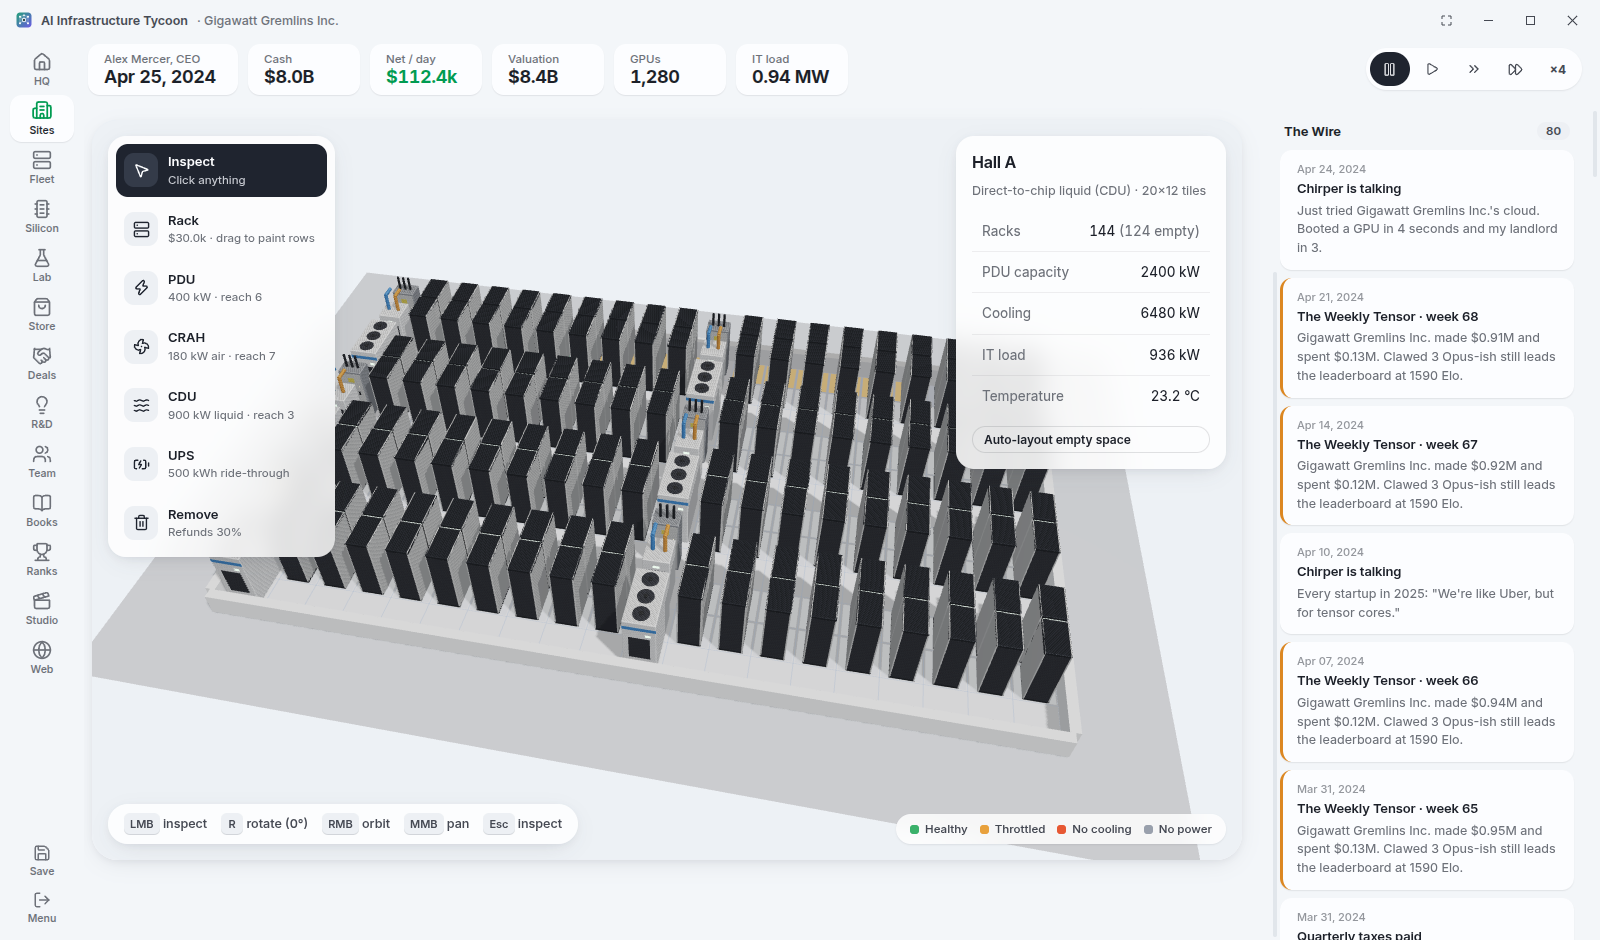
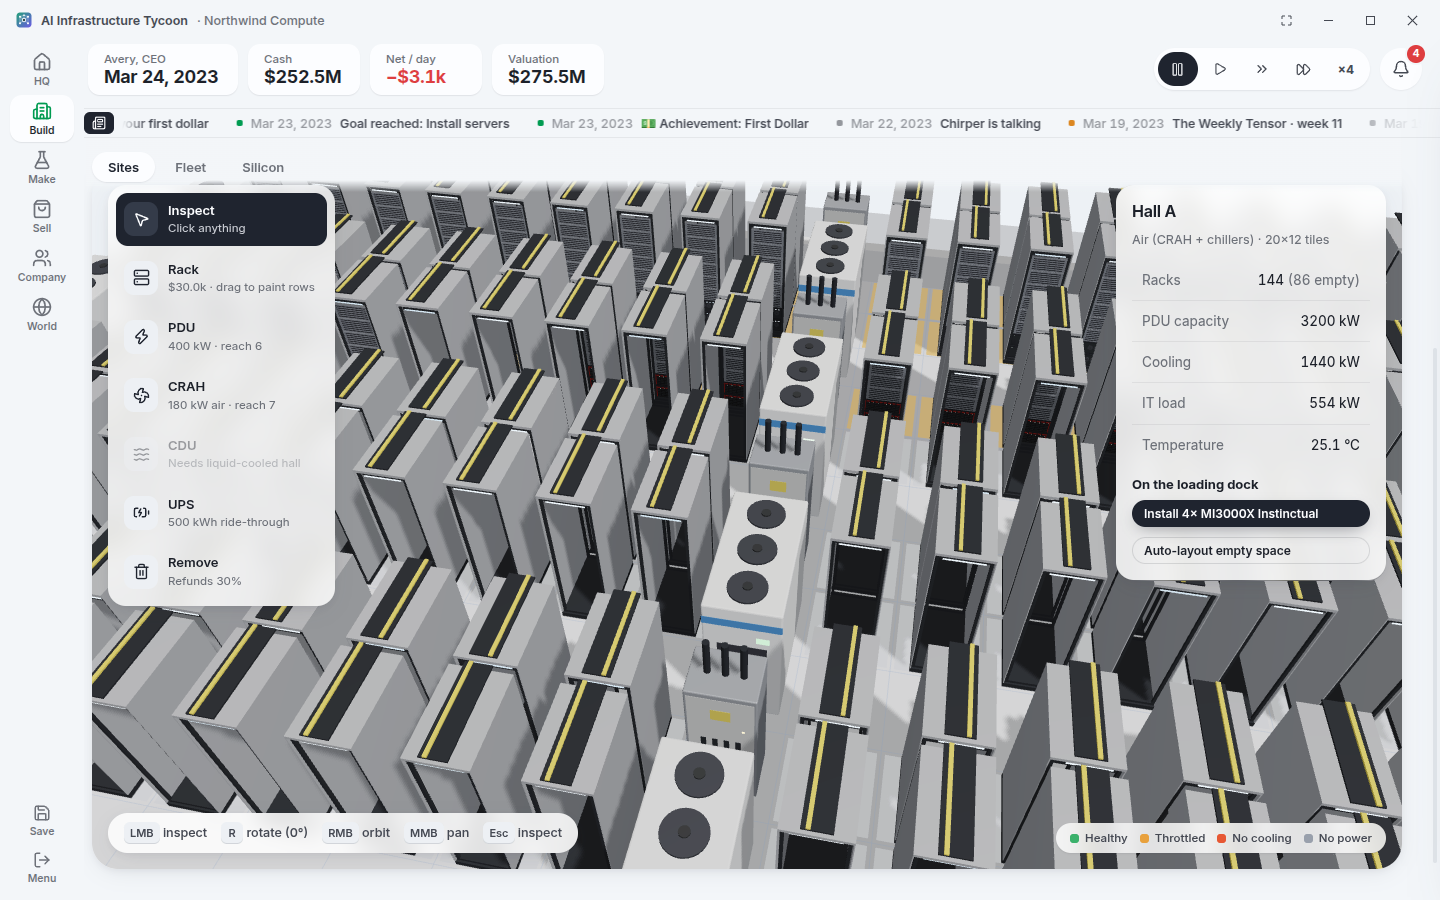
docs: README, ROADMAP and design doc for the expansion round; new screenshots

diff --git a/README.md b/README.md
@@ -52,8 +52,20 @@ The only lose condition is running out of money for 30 days.
 <td width="50%"><img src="docs/screenshots/ux-paper.png" alt="The Daily Compute, a broadsheet newspaper" /><br/><sub><b>The Daily Compute.</b> A morning paper every game day, built from what actually happened.</sub></td>
 </tr>
 <tr>
-<td width="50%"><img src="docs/screenshots/hall-editor.png" alt="3D hall editor with racks, PDUs and cooling units" /><br/><sub><b>The hall editor.</b> Every rack needs a PDU and a cooler within reach. Overload them and things get warm.</sub></td>
-<td width="50%"><img src="docs/screenshots/chip-designer.png" alt="Chip designer with package floorplan and wafer map" /><br/><sub><b>Make your own chip.</b> Pick a node and a die size, then watch yield fall off a cliff.</sub></td>
+<td width="50%"><img src="docs/screenshots/hall-editor.png" alt="3D hall with open racks, 8-GPU servers, blanking panels and cable ladders" /><br/><sub><b>The hall editor.</b> Every server, sled and status light is visible. Hold-click anything to pick it up and move it.</sub></td>
+<td width="50%"><img src="docs/screenshots/chip-3d.png" alt="Exploded 3D chip with gold lid, RGB HBM stacks, an espresso cup and a rubber duck" /><br/><sub><b>Make your own chip, in 3D.</b> Explode the package, pick a finish, and bolt on a gold lid, an espresso boiler or a qubit. Every mod changes the numbers.</sub></td>
+</tr>
+<tr>
+<td width="50%"><img src="docs/screenshots/model-foundry.png" alt="Model Foundry with modality cards and fine-tune options" /><br/><sub><b>Model Foundry.</b> Text, code, image, speech, video or omni. Train from scratch, fine-tune, distil, or keep pre-training any base.</sub></td>
+<td width="50%"><img src="docs/screenshots/node-studio.png" alt="Server node designer with live trade-off table" /><br/><sub><b>Design your own server.</b> Cooling, power profile, host RAM and parts grade, with a live comparison against the stock box.</sub></td>
+</tr>
+<tr>
+<td width="50%"><img src="docs/screenshots/globe.png" alt="Network globe with dotted continents and glowing backbone arcs" /><br/><sub><b>Your network on the globe.</b> 15 regions, your backbone in light, rival campuses in the dark.</sub></td>
+<td width="50%"><img src="docs/screenshots/whos-who.png" alt="Grid of parody CEOs with company marks" /><br/><sub><b>Who's who.</b> 35 parody companies, each with a CEO, a brand mark, a headquarters and opinions.</sub></td>
+</tr>
+<tr>
+<td width="50%"><img src="docs/screenshots/fleet-brands.png" alt="Fleet shop with vendor word-marks and branded GPU modules" /><br/><sub><b>Shop like it's a real launch.</b> Vendor word-marks, branded modules, and your own designs next to theirs.</sub></td>
+<td width="50%"><img src="docs/screenshots/chip-designer.png" alt="Chip designer with package floorplan and wafer map" /><br/><sub><b>Then do the maths.</b> Floorplan, wafer map, yield, NRE, time to silicon.</sub></td>
 </tr>
 <tr>
 <td><img src="docs/screenshots/model-designer.png" alt="Animated neural network flowchart" /><br/><sub><b>Design a model.</b> Click the diagram. Add experts. Regret the KV cache.</sub></td>
@@ -84,15 +96,15 @@ The only lose condition is running out of money for 30 days.
 
 | | |
 |---|---|
-| 🏗 **Build** | Pick from 9 regions with real-ish power prices, climates and permit delays. Lay out halls tile by tile in 3D. |
+| 🏗 **Build** | Pick from 15 regions with real-ish power prices, climates and permit delays. Lay out halls tile by tile in 3D, and hold-click anything to move it later. |
 | ⚡ **Power** | Utility feeds, solar, wind, gas, batteries, geothermal and eventually small reactors. Choose a dispatch strategy and sign PPAs. |
 | ❄ **Cool** | Air, rear-door, direct-to-chip, immersion. Air can't handle a Blackwall-class rack, and physics will remind you. |
-| 🔩 **Silicon** | Design GPUs and CPUs from process node to HBM stack. Tape out, buy wafers or build your own fab with EUV scanners, then sell chips. |
-| 🧠 **Models** | Real transformer maths (GQA, MLA, mixture-of-experts), a dataset market with "legal risk", and benchmark scores that depend on your data mix. |
+| 🔩 **Silicon** | Design GPUs and CPUs from process node to HBM stack in a live 3D package, with finishes and 12 absurd-but-real mods. Tape out, buy wafers or build your own fab with EUV scanners, then sell chips. Or design your own 8-GPU server nodes around anyone's GPU. |
+| 🧠 **Models** | Real transformer maths (GQA, MLA, mixture-of-experts), a dataset market with "legal risk", and benchmark scores that depend on your data mix. Six modalities as separate business lines; train from scratch, fine-tune, distil or continue pre-training from your models or open weights. |
 | 🛍 **Products** | Chat apps, coding agents, an API platform with keys and rate limits, and enterprise seats. You design the plans. |
 | ☁ **Cloud** | Rent out GPU and CPU servers on-demand, reserved or spot, or rent compute yourself when you're short. |
 | 👥 **People** | Hire named weirdos with traits, keep them happy, and watch rivals poach your best ones. |
-| 🏆 **Rivals** | Leaderboards, acquisitions (if regulators let you), an IPO, a rich list, and 32 achievements. |
+| 🏆 **Rivals** | 35 parody companies with CEOs and brand marks, rival campuses on a network globe, leaderboards, acquisitions (if regulators let you), an IPO, a rich list, and 32 achievements. |
 | 🧭 **Guidance** | HQ suggests the next few things worth doing. Hire managers for facilities, sales, people, finance and research and let them run on autopilot; they ask before anything you can't undo. |
 | 🛡 **Safety net** | Anything irreversible asks first (hold to confirm), big purchases show your cash afterwards, and small edits can be undone for five seconds. |
 | 📰 **News** | A headline ticker, a news drawer you can filter, and The Daily Compute every morning. |

diff --git a/docs/ROADMAP.md b/docs/ROADMAP.md
@@ -29,14 +29,20 @@ Status: ✅ done · 🟡 partial · ⬜ todo
 
 - ✅ UX foundation: six hubs instead of thirteen tabs, HQ next steps + inbox, hireable managers with autopilot, hold-to-confirm for irreversible actions + 5 s undo, plain-English summaries and an Advanced fold on every screen, jargon tooltips, headline ticker + news drawer + The Daily Compute, Sandbox/Developer mode
 
+- ✅ Assets & world: Blender rack v2 (open cabinet, ToR switch, cable ladder), 8-GPU server with vendor-tinted sleds, blanking panels, LED twinkle; rack elevation in the inspector; dotted network globe (Natural Earth land mask) with backbone arcs; 15 regions; 35 parody companies with CEOs, brand marks, HQs and rival campuses; brand system (20 marks, app-icon tiles, word-marks, branded GPU/CPU art); Who's who tab
+- ✅ Hold-click to pick up and move placed racks, PDUs, coolers and UPS (free, undoable)
+- ✅ Node studio: design your own 8-GPU server SKU (cooling, power profile, host RAM, parts)
+- ✅ 3D chip studio: package built from the spec, exploded view, finishes, 12 absurd-but-real mods with visible props
+- ✅ Model Foundry: six modalities with their own price and demand, a Modalities R&D branch, and scratch / fine-tune / distil / continue from your models or open weights
+- ✅ Simpler dark title screen
+
 ## Next (agreed order)
-1. Assets & world — generated art, Blender models, better world map, many more fictional companies and people, brand-style parody marks for companies, GPUs, CPUs and clouds
-2. Model Foundry — train from scratch, fine-tune or transfer-learn, run models; a modality skill tree (text, code, image, speech, video, multimodal) as separate business lines
-3. Data Foundry — make, label and sell datasets per modality
+1. Per-modality competition — image, speech, code and video rivals of their own (Halfjourney, ElevenLaps, Cursed …)
+2. Data Foundry — make, label and sell datasets per modality
 4. Silicon from scratch — deeper chip design
 5. Story & media — press conferences, richer websites, trailers, secret events
 
 ## Ideas for later
-- Hold-click to pick up and move placed racks, PDUs and coolers
+- Images made with the agy image-generation tool (transparent PNGs)
 - Balance pass: a small first cluster hovers around break-even
 - Multi-site training (tech exists), orbital data centers / Dyson swarm gameplay, export trailers to MP4, sound design

diff --git a/docs/GAME_DESIGN.md b/docs/GAME_DESIGN.md
@@ -30,12 +30,20 @@ hour by hour with real-world physics and economics, then exaggerated just enough
   transistor density → die area → compute units and clocks, then HBM generation and stack count, then packaging
   (monolithic, CoWoS chiplets, wafer-scale). Physics pushes back through yield (Poisson defect density), power
   density, reticle limits and tape-out NRE. Tape out, buy wafer allocation from Taiwan Semiconductor-ish Co.,
-  and use the chips yourself or sell them to rivals.
+  and use the chips yourself or sell them to rivals. The package is drawn live in 3D (exploded view, finishes), and
+  12 absurd mods (gold lid, espresso boiler, quantum-ish garnish, aquarium loop, ludicrous bin …) each move a real
+  number: FLOPS, power, unit cost, NRE, schedule, yield or market appeal.
+- **Node studio** — build your own 8-GPU server around any GPU on sale: air or cold-plate, eco/balanced/max power,
+  host RAM, parts grade. Designs are orderable SKUs; liquid nodes need a liquid hall.
 - **People** — hire named candidates into teams (Facilities, Chip Design, Research Lab, Cloud, Sales).
   Team skill drives MFU, repair time, research speed, chip design time and sales. Labs are research groups
   with a focus (Scaling, Efficiency, Safety, Hardware).
 - **Models** — train with real scaling laws (6·N·D FLOPs, Chinchilla loss), post-train, launch with
   a **keynote**, and fight for market share on the Elo leaderboard.
+- **Model Foundry** — text, code, image, speech, video and omni models are separate business lines with their own
+  price and demand, unlocked through the Modalities branch. Make them from scratch, by fine-tuning (cheap, capped
+  gain), by distilling a smaller student from a stronger teacher (closes 60% of the gap, never passes it), or by
+  continued pre-training. Bases are your own models or open-weights templates; switching modality costs Elo.
 
 ## Long loop (endless)
 
